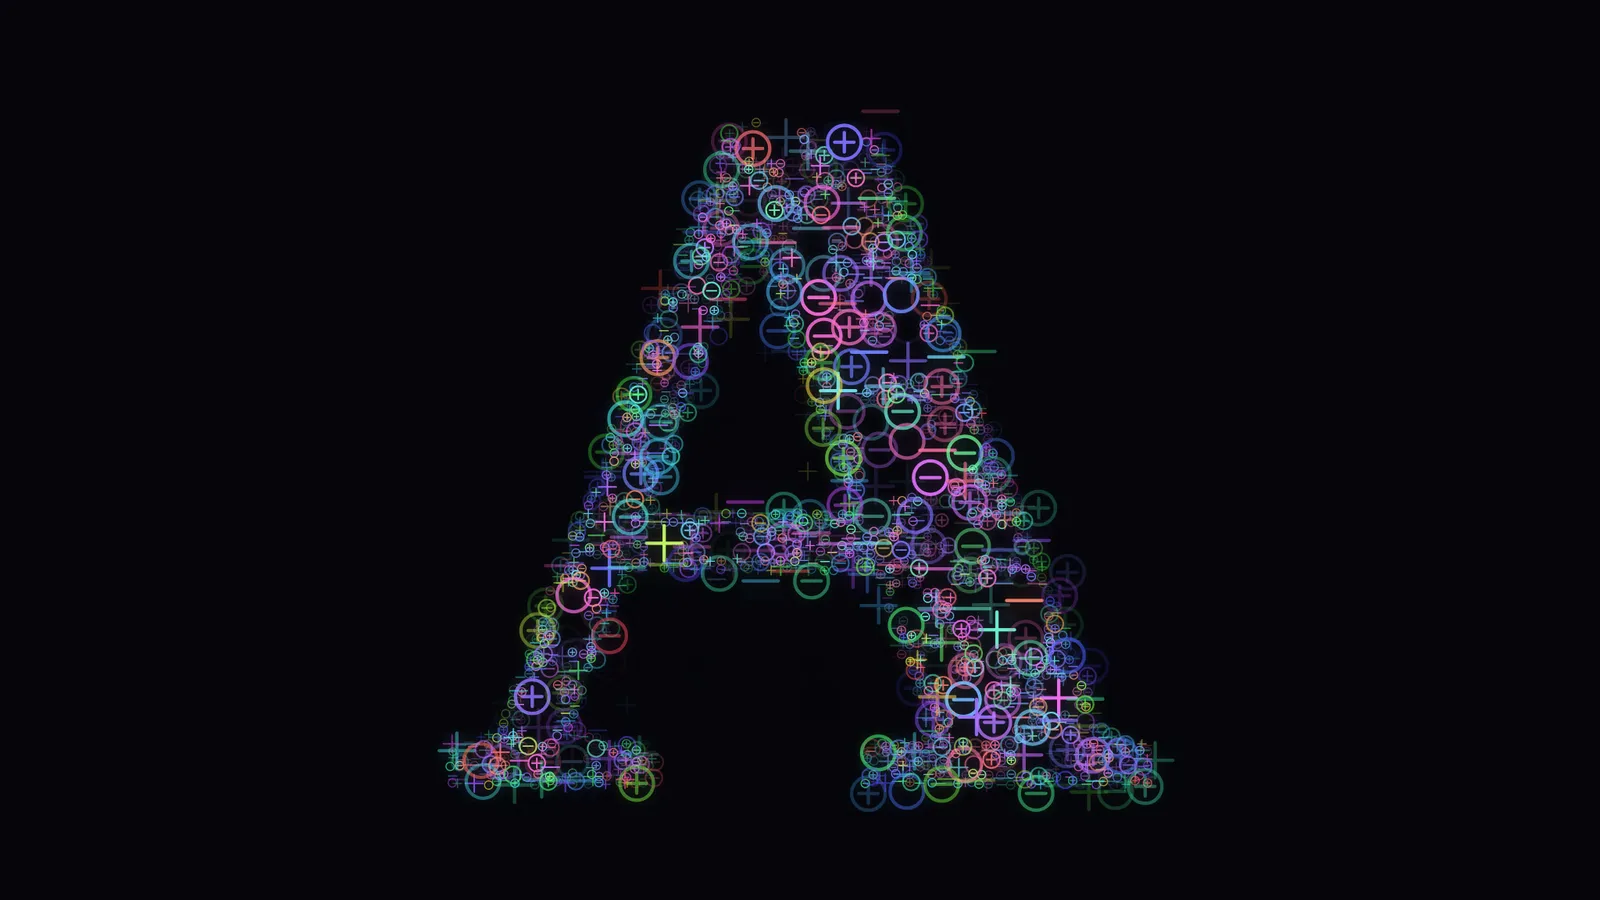
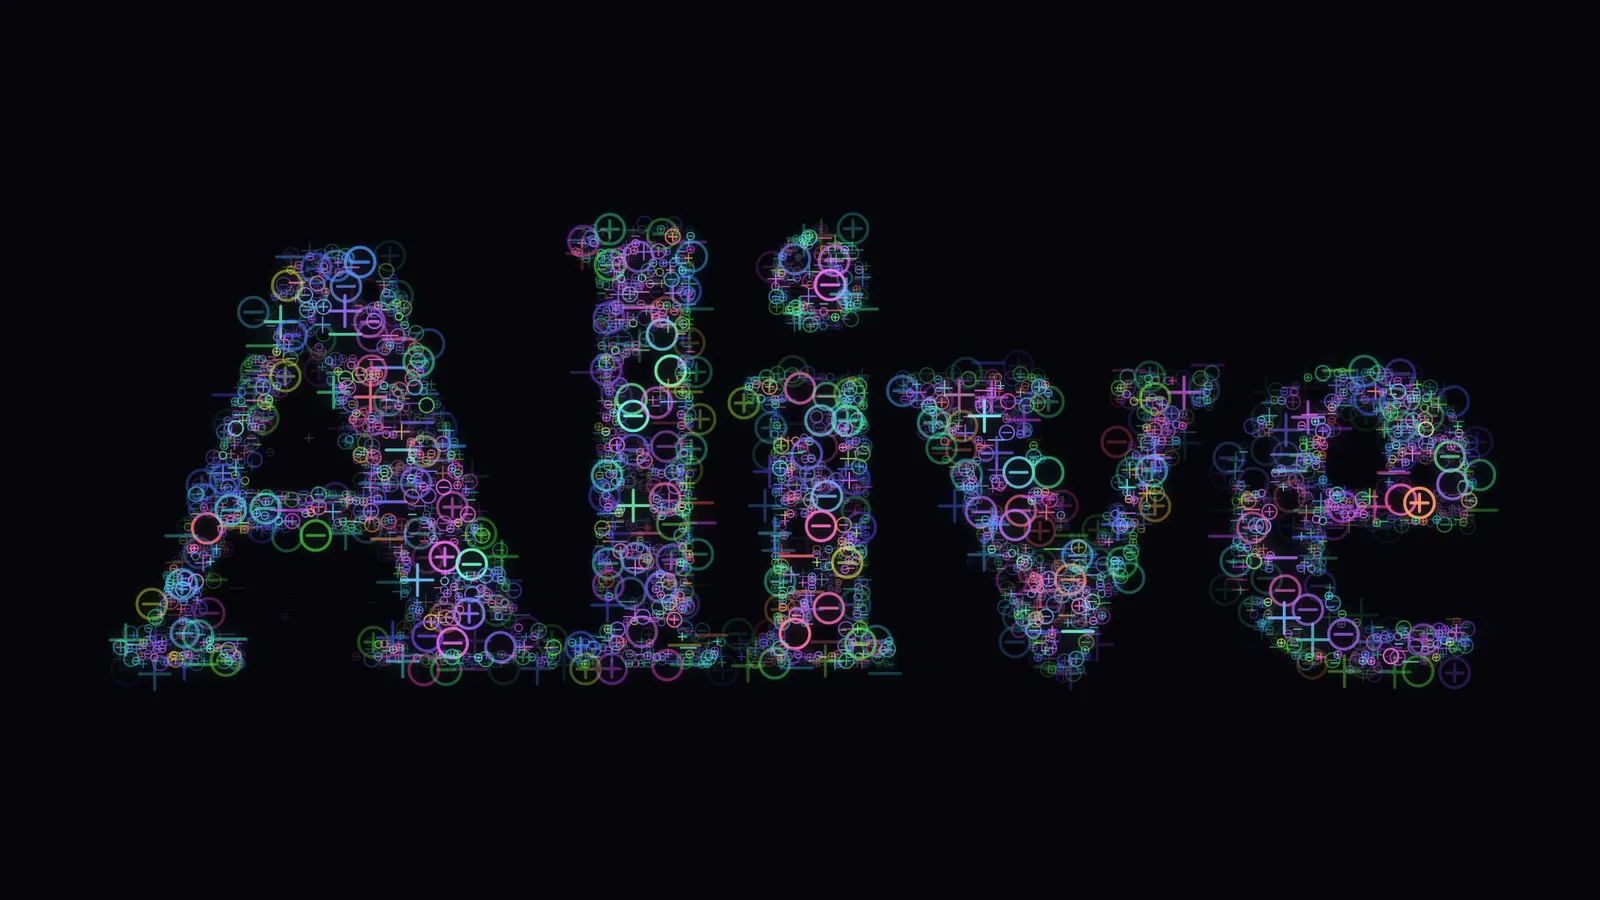
docs(psyxels): the word, the negative, and a poster of the new landing scene
`about.md` gains two sections. *A word rather than a letter* says why a
word is a subject rather than a setting, with the measurement: 143 CSS
pixels of median horizontal ink run for the roman A the piece used to open
on, 70 for *Alive* at a larger fill. *The negative* says what polarity
does, why it is a `difference` composite rather than a hole cut in a
rectangle, and what it costs — 2,267 psyxels lighting a quarter of the
frame against 6,462 lighting nine tenths, 25ms a frame against 79.

`AGENTS.md` gains the trap: `destination-out` is the obvious way to invert
and it is right for a letter and silently wrong for the portrait, whose
shape is a rectangle and whose tones alone say where the subject is.

The poster is recaptured because the landing scene changed, and the note's
accent tracks `PRESETS[0]`, which is `alive` now rather than `acid`.

Changed region(s): [[0.0625, 0.1244, 0.9375, 0.9022]]

diff --git a/src/experiments/psyxels/about.md b/src/experiments/psyxels/about.md
@@ -3,7 +3,7 @@ slug: psyxels
 title: Psyxels
 summary: A still picture packed out of psyxels of every size, each one a small animation with a mind of its own.
 started: 2026-08-29
-updated: 2026-08-30
+updated: 2026-09-03
 poster: ./poster.webp
 tags:
   - canvas
@@ -11,12 +11,12 @@ tags:
   - typography
 ---
 
-A letter A, white on black. Look closer and it is not drawn — it is packed, out
-of squares of wildly different sizes, and every square is showing a sign: a
-minus, a plus, a plus in a circle. Keep watching. The signs change. The colours
-change. Every so often a square decides it would rather be four squares, or four
-decide they would rather be one, and the letter is rebuilt out of different
-parts while you are looking at it.
+A word, white on black. Look closer and it is not drawn — it is packed, out of
+squares of wildly different sizes, and every square is showing a sign: a minus,
+a plus, a plus in a circle. Keep watching. The signs change. The colours change.
+Every so often a square decides it would rather be four squares, or four decide
+they would rather be one, and the word is rebuilt out of different parts while
+you are looking at it.
 
 Those parts want a name, and _pixel_ is taken — everything here is measured in
 screen pixels and a psyx is anywhere between three and two hundred of them
@@ -288,6 +288,22 @@ break into separate psyxels, a script gives a stroke that changes width as it
 turns. Two machines therefore show different letters, which is the same bargain
 the piece already makes with a viewer's monitor.
 
+## A word rather than a letter
+
+Two of the subjects are words, and that is not the same thing as a bigger
+letter. A single glyph is fitted to the frame's shorter side and arrives at the
+packing as one thick shape with a handful of joins. A word is fitted to the
+frame's _width_, so the same fill spends that width on four or five shapes and on
+the counters and sidebearings between them.
+
+There is a number for it. On a 1280×800 frame the median horizontal run of ink is
+143 pixels for the roman A the piece used to open on, and 70 for the word
+_Alive_ at a slightly larger fill — about half the stroke to pack, from a subject
+that looks bigger. So a word needs a finer grid than a letter to survive: at the
+grain a letter reads at, a word's counters fill in and `li` closes into one bar.
+That is the frontier the match figure measures, met from the other side, and it
+is why the word scenes sit a notch finer than the letter ones.
+
 ## The portrait
 
 The second subject is a photograph, and it goes through the same machinery
@@ -306,6 +322,34 @@ subjects genuinely disagree. A letter wants its surviving psyxels at full
 strength, flat and hard-edged. A face wants them shaded, because the shading is
 the picture. **Flatten** is the dial between those, and the presets sit at
 opposite ends of it.
+
+## The negative
+
+**Polarity** turns the picture inside out before the packing ever sees it: the
+whole frame becomes psyxels and the subject is the hole left in them, read the
+way a stencil is read. Nothing downstream knows. The packing still spends its
+small psyxels along the same contours and its large ones across the same flat
+runs; it is simply on the other side of them, so what used to be a lit stroke on
+bare ground is bare ground inside a lit field.
+
+It is one composite over the frame — `difference` against white, which leaves
+`1 - alpha × colour` everywhere and is exactly the quantity read as ink. Doing it
+that way rather than by cutting the letter out of a filled rectangle is what
+makes it work for the photograph too: a photograph's _shape_ is a rectangle and
+only its tones say where the subject is, so punching its silhouette out would
+punch out a rectangle. Inverted, it comes back as its own negative.
+
+Two things follow from covering the frame. Threshold now eats the hole outwards
+rather than the stroke inwards, so a high threshold makes the gap _wider_ than
+the letter was drawn — the same control, met from the other side.
+
+And it costs. Flipping polarity on one scene and changing nothing else takes the
+field from 2,267 psyxels lighting a quarter of the frame to 6,462 lighting nine
+tenths of it, and a frame from 25ms to 79ms in the test browser. Three times the
+marks and three and a half times the work, for a picture whose subject is the
+same size. What it does _not_ do is grow with the monitor: the coarsest psyx is a
+share of the frame either way, so a wider window is the same field over more
+pixels rather than more field.
 
 ## The same picture in every window
 

diff --git a/src/experiments/psyxels/AGENTS.md b/src/experiments/psyxels/AGENTS.md
@@ -17,7 +17,7 @@ things about _this_ piece that will get broken by accident.
 
 - **The packing** — `mask.ts` and `field.ts` — is a still question asked of a
   still picture. It decides where each psyx is and how big. It runs when the
-  subject, the frame, or one of the seven settings in `needsPacking` changes, and
+  subject, the frame, or one of the eight settings in `needsPacking` changes, and
   at no other time.
 - **The life** — `glyphs.ts`, `pulse.ts`, `palette.ts` — is read live, every
   frame, from settings that are never copied into the field. It decides what a
@@ -73,6 +73,14 @@ one up does not cover for the other being off.
   measures the subject's own white point — ignoring the top half per cent,
   because one specular highlight would otherwise undo the stretch — and scales to
   it. A letter is unaffected: its white point _is_ white.
+- **The negative is a composite over the frame, not a hole cut in a rectangle.**
+  `destination-out` with the subject drawn over a filled frame is the obvious way
+  to invert, and it is right for a letter and silently wrong for the portrait: a
+  photograph's _shape_ is its bounding rectangle and only its tones say where the
+  subject is, so it punches out a rectangle. `invert` in `subject.ts` fills the
+  frame with white under `difference`, which leaves `1 - alpha × colour` at every
+  psyxel — exactly the quantity `buildMask` reads as ink — and inverts a letter's
+  antialiased edge and a photograph's tones by the same arithmetic.
 - **The tone map has to be a curve, not a lift.** It was `ink + (1 - ink) ×
 flatten` at first, which looks right on a letter — ink is 1 almost everywhere —
   and gives a photograph a hard cut with no shading above it. Every surviving
@@ -345,7 +353,7 @@ its name and range alone.
 | File          | Holds                                                                        |
 | ------------- | ---------------------------------------------------------------------------- |
 | `settings.ts` | `Settings`, the `CONTROLS` spec, presets, query parsing, what a change costs |
-| `subject.ts`  | the only place that knows what the picture is: a letter, or the portrait     |
+| `subject.ts`  | the only place that knows what the picture is, and which way round           |
 | `mask.ts`     | the subject as coverage: summed-area tables, variance, the white point       |
 | `glyphs.ts`   | the vocabulary, the walk between frames, the blend between them, the drawing |
 | `field.ts`    | the quadtree: splitting, merging, churn, and a psyx's own life               |
